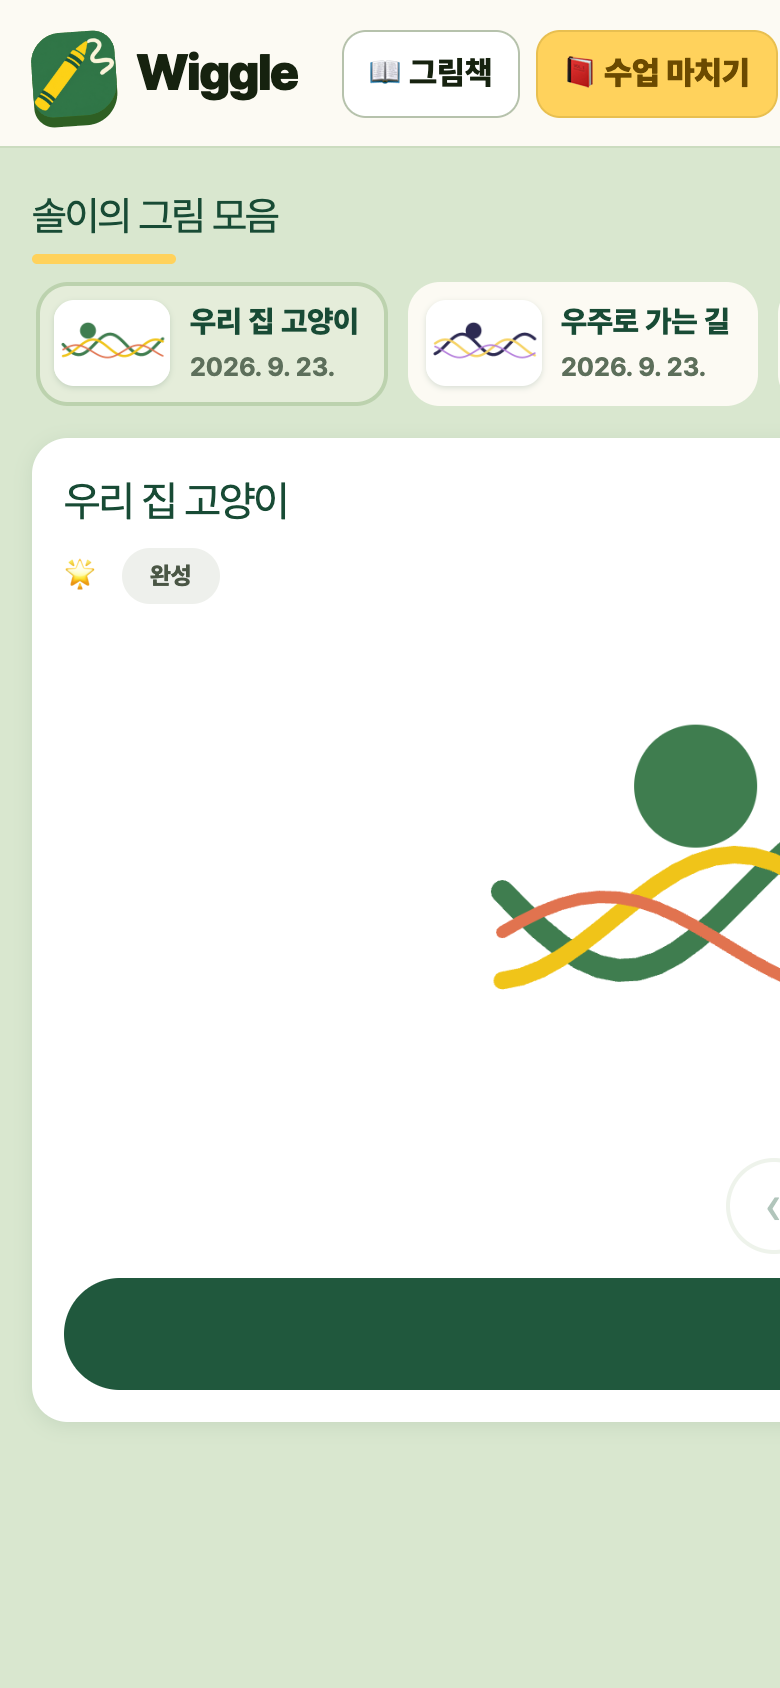
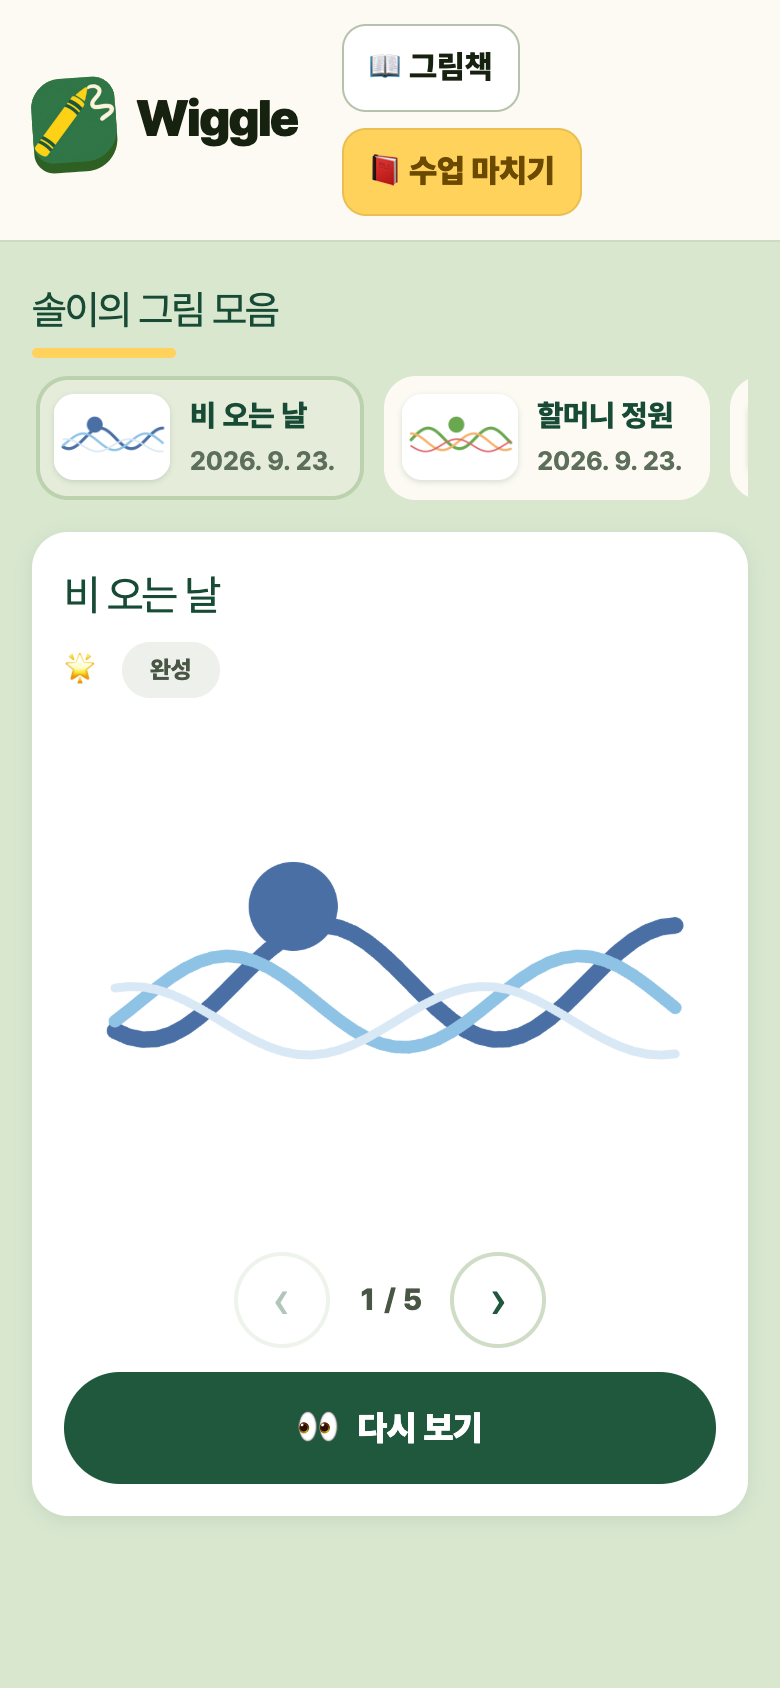
보관함이 390px에서 오른쪽으로 잘리던 것을 고침
뷰포트 390px인데 .app-header와 .archive-stage가 882px로 잡혀, 「수업 마치기」와
「다시 보기」가 화면 밖에 있었다. html이 잘라 내므로 가로 스크롤조차 생기지 않아
눈에 띄지 않았다.

.archive-book-page / .archive-stage / .archive-book 세 겹이 모두
grid-template-columns 없이 display:grid라, 암묵 auto 칼럼이 안쪽 썸네일 줄의
max-content(886px)까지 부푸는 grid blowout이었다. 세 곳에 minmax(0,1fr)을 준다.

browser-check가 /student/archive를 방문하지 않아 게이트의 사각지대였다.
CSS 계약 시험을 넣어 칼럼이 사라지면 터지게 한다.

Claude-Session: https://claude.ai/code/session_01HGRbVQzQqQZKo56FZpQXXu

diff --git a/app/globals.css b/app/globals.css
@@ -2096,14 +2096,17 @@ body {
    그래서 책은 그 비율(1810/869)을 지키고, 쪽 내용은 그 사각형 안에 얹는다. 쪽을 따로 늘리지 않는다.
 
    반응형: 760px 미만에서는 양면 책을 억지로 줄이지 않고 한 장 레이아웃으로 갈아탄다(인계 지시). */
-.archive-book-page { min-height:100dvh; display:grid; grid-template-rows:auto auto minmax(0,1fr); background:#d9e7cf; }
+/* 칼럼을 적지 않으면 암묵 `auto` 칼럼이 안쪽 썸네일 줄의 max-content(850px)까지 부푼다.
+   html이 잘라 내 가로 스크롤은 안 생기고 내용만 오른쪽으로 사라진다 — 390px에서 실제로 그랬다
+   (2026-09-23 실측: 뷰포트 390 / 머리·무대 882). 세 단계 모두 줄어들 수 있는 칼럼을 준다. */
+.archive-book-page { min-height:100dvh; display:grid; grid-template-columns:minmax(0,1fr); grid-template-rows:auto auto minmax(0,1fr); background:#d9e7cf; }
 .archive-book-page>.app-header { margin:0; padding:12px clamp(16px,2.2vw,34px); background:#fcfaf3; border-bottom:1px solid #cbdcbf; }
 .archive-book-error { margin:12px clamp(16px,2.2vw,34px) 0; }
 .archive-finish { background:#ffd25c; border-color:#e8bf50; color:#6b4a00; font-weight:900; }
-.archive-stage { display:grid; place-items:center; min-height:0; padding:clamp(12px,2.2vh,28px) clamp(16px,3vw,64px) clamp(16px,3vh,40px); }
+.archive-stage { display:grid; grid-template-columns:minmax(0,1fr); place-items:center; min-height:0; padding:clamp(12px,2.2vh,28px) clamp(16px,3vw,64px) clamp(16px,3vh,40px); }
 
 /* ── 좁은 화면(기본): 한 장 레이아웃. 책 그림을 쓰지 않는다 ───────────────────── */
-.archive-book { width:min(1500px,100%); display:grid; gap:14px; }
+.archive-book { width:min(1500px,100%); display:grid; grid-template-columns:minmax(0,1fr); gap:14px; }
 .archive-book-shell { display:none; }
 .archive-book-list>h1 { position:relative; margin:0 0 16px; font-size:clamp(20px,2.1vw,32px); letter-spacing:-.045em; color:#184b35; }
 .archive-book-list>h1:after { content:""; position:absolute; left:0; bottom:-9px; width:72px; height:5px; border-radius:999px; background:#ffd25c; }

diff --git a/docs/current-state.md b/docs/current-state.md
@@ -33,6 +33,23 @@
 - 새 작업을 시작하기 전에 `git status --short`와 최근 커밋을 확인한다.
 - 로컬·브랜치 커밋은 게이트를 통과했어도 `main` 반영(사용자 push) 전까지 배포 상태로 간주하지 않는다.
 
+## 2026-09-23 보관함이 390px에서 잘리던 것 수정 (`claude/zoom-past-canvas-20260923`)
+
+- **증상**: `/student/archive`가 좁은 화면에서 오른쪽으로 잘려 나갔다. 뷰포트 390px인데
+  `.app-header`와 `.archive-stage`가 **882px**로 잡혔다. `html`이 잘라 내므로 가로 스크롤은
+  생기지 않고 내용만 사라진다 — 「수업 마치기」·「다시 보기」가 화면 밖이라 누를 수 없었다.
+- **원인**: `.archive-book-page` / `.archive-stage` / `.archive-book` 세 겹이 모두
+  `grid-template-columns` 없이 `display:grid`다. 암묵 `auto` 칼럼이 안쪽 썸네일 줄의
+  max-content(886px)까지 부푸는 전형적인 grid blowout이다. 세 곳에 `minmax(0,1fr)`을 줬다.
+- **왜 여태 안 걸렸나**: `scripts/browser-check.mjs`가 `/student/archive`를 **방문하지 않는다.**
+  모바일 게이트의 사각지대다. 그래서 `tests/responsive-drawing-ui.test.mjs`에 CSS 계약 시험을 넣었다.
+- **검증**: 320×568 / 390×844 / 844×390 / 1440×900 실측 — 머리·무대 폭이 뷰포트와 같고,
+  가로 스크롤 없음, 머리 단추와 「다시 보기」·넘기기가 모두 화면 안, 터치 목표 44px 이상.
+  남는 넘침은 썸네일 줄뿐인데 이건 진짜 가로 스크롤러다(390에서 내용 886 / 밀 수 있는 거리 528 실측).
+  `npm test` 377/377, typecheck·lint(경고 14)·build·`git diff --check`·`browser-check` 통과.
+- 남은 위험: 보관함은 여전히 browser-check 경로 밖이다. 다음에 이 페이지를 크게 손볼 때
+  (그림책 만들기 작업) 실제 방문 단계를 추가하는 것이 맞다.
+
 ## 2026-09-23 몽그리 접기 단추 글자 잘림 재수정 (`claude/zoom-past-canvas-20260923`)
 
 - `.grimi-head>button`의 **원형 규칙은 닫기(×) 전용**인데 `:not(.grimi-collapse)`가 없어
